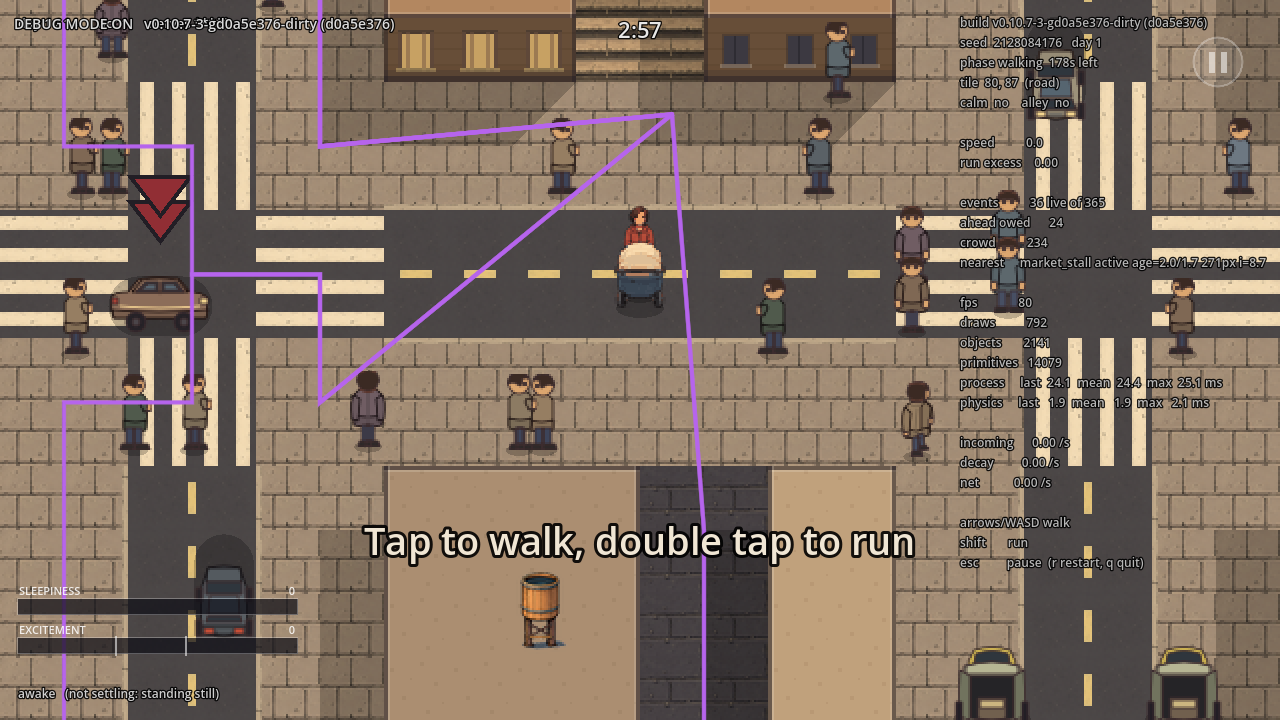
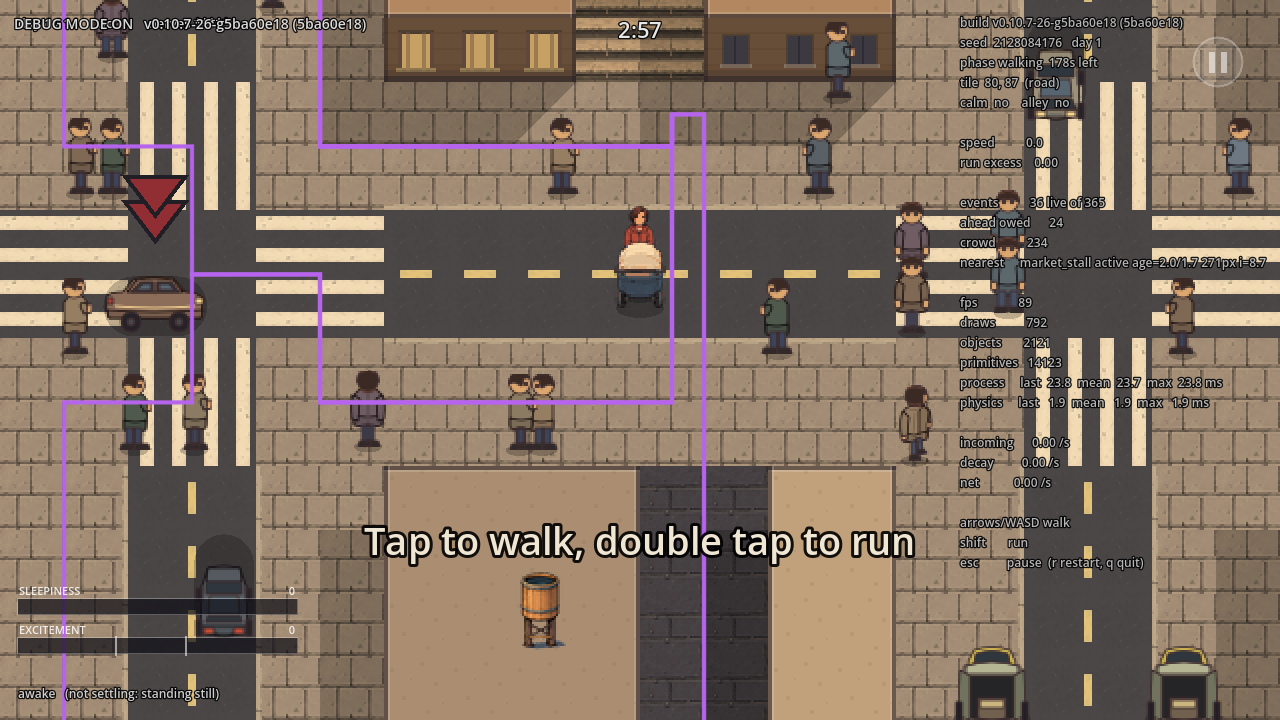
M129: the four rules filed in DECISIONS.md, the entry holds the one open question, the still retaken
The four items are built (the branch's commits), so the entry is rewritten to what is still
open -- the wall exemption and leaf_blower's reach, a balance decision for the player -- and
the record carries the probe's numbers end to end, each rule's construction and non-vacuity,
the fork resolved by measurement, and the picture's own part in the mid-block question. The
still on the player's seed is retaken with the connector drawn along the street. REVIEW.md
asks for the routes to be followed by eye on that seed.

diff --git a/docs/TODO.md b/docs/TODO.md
@@ -483,71 +483,30 @@ bar where it happened.
 
 ---
 
-## M129 — A path through the city never has to cost · asked for 2026-09-13
+## M129 — A path through the city never has to cost · the four rules built 2026-09-14, one question open
 
-> "also framing from a different point of view a path through the city must never hit
-> excitement -- so all obstacles should be routable around by eg crossing to the other side of
-> the street which in turn means the other side of the street must be open enough so we can
-> walk on it unimpeded. a yeller must loop in a way that the desired path has an opening where
-> the yeller is not present for example. also, the routing should only cross the street at
-> intersections. in block crossings are possible in game but shouldn't be counted on by the
-> routing algorithm"
+> "a path through the city must never hit excitement -- so all obstacles should be routable
+> around … the routing should only cross the street at intersections"
 
-[PLAYTEST-69](playtests/PLAYTEST-69.md). The **city** and **events** rules govern; the
-**balance** rule governs any number it moves.
+[PLAYTEST-69](playtests/PLAYTEST-69.md), [PLAYTEST-71](playtests/PLAYTEST-71.md),
+[PLAYTEST-75](playtests/PLAYTEST-75.md). The four rules are built and recorded
+(`DECISIONS.md`, M129, the four rules): a route's junctions stay clear, no single standing row
+takes a route street's whole width, a pacing row leaves the line open for part of its beat,
+and the tree grows on a graph with no carriageway cell but the junctions' and no main-road
+cell at all. The probe now finds a zero-cost line along a third of routes (100 of 296) where
+it found one along a sixth, and no route crosses a carriageway mid-block or touches the spine
+outside a junction. **The guarantee is still not true for two routes in three**, and the
+biggest remaining cause is a design decision, not a defect, so it waits on the player:
 
-**What is true today.** The day's routes are a corridor of two-tile cells grown on the
-reachability grid (`DECISIONS.md`, M69); `ClosurePlanner` accepts a closure only if the home
-still reaches two calm areas, `EventScheduler._ensure_the_city_is_still_walkable` drops
-obstructing bodies, widest first, until a park is reachable, and a `hard_fail` row keeps its
-whole field clear of other events (`_room_around`). Every one of those is about *reaching*, and
-a route that reaches through three friction fields in a row is as legal as an empty one. Costly
-rows land inside the corridor on purpose (the `friction` role). **The reading is the player's**
-([PLAYTEST-71](playtests/PLAYTEST-71.md), the three readings): a pacing row is passed by timing,
-so only the ground its beat never leaves free counts as blocked — *"time pass -- don't route
-around them"*; a moving row never counts — *"the player can cross the street, wait, then come
-back without ever getting excited by it"*; a region door never counts — *"it costs by design"*;
-and a flock is scenery — *"flocks are basically free already -- don't count it as block"* — so
-`pigeon_flock` carries `EventDef.scenery` and is outside the cost rule's wall and friction
-placement altogether. **The guarantee is measured under that reading and is far from true**:
-`tests/probes/m129_zero_cost_line.gd`, run by name, finds a zero-cost line along about one
-route in six over a run, one in three on day 1 and one in twenty-five from act III; the
-numbers, the readings and the failing shapes are in `DECISIONS.md` under M129, the reading
-decided. The dominant break is a *covered junction* — the only legal crossing sits inside some
-row's reach — then a single row wide enough to take a street alone (the street is 192px kerb to
-kerb and most reaches are 179 to 240px; `leaf_blower` most often), then a cut no one row
-makes, then the yeller's beat. A body with the far pavement also taken is the rarest shape and
-two friction fields on facing pavements never occur, so the far-pavement rule the entry first
-drafted is not written. The corridor grower itself crosses a carriageway mid-block about three
-times per route, on ordinary streets and never on the spine.
-
-- [ ] **A route's junctions stay clear.** The junctions a route passes through, and the ones at
-      each end of each of its streets, are outside every counted row's reach: checked before a
-      row is placed, never repaired after (the city rule), so a row whose field would cover a
-      route junction is refused that ground. This is the shape that breaks most routes — more
-      than every other shape together — and no earlier item named it. Pursuers, `AHEAD_OF_PLAYER` and
-      `TOWARD_PLAYER` rows, city-wide rows, moving rows and doors are outside this — the first
-      three pay the telegraph contract, the last two are not blocks — and so is anything off
-      the corridor, where the wall role is the design. Re-run the probe after.
-- [ ] **No single standing row takes a route street's whole width.** A friction row that stands
-      or paces on a route's pavement is accepted only if its reach leaves the far pavement of
-      that street outside it for the stretch between the two nearest junctions; a row that
-      cannot — `busker`, `ice_cream_van` at today's reaches on a 192px street, and
-      `police_patrol` if it turns out to pace rather than travel — is refused corridor ground or
-      its reach on the corridor is the number the **balance** rule moves. Where the corridor
-      runs along a precinct, a park edge or an alley, say what "the other side" is there or
-      refuse the row that ground. Re-run the probe after.
-- [ ] **A pacing row leaves the line open for part of its beat.** This is the reading as well
-      as the rule, and the probe finds it broken only where a second row closes the beat's open
-      end: the yeller's route is sited and sized so that the pavement it paces is clear at one
-      end for a readable share of each loop, or its loop runs on the pavement the route does
-      not use, and no other row's reach covers that open end; the choice is measured with the
-      probe and the reach the line needs at the far end of its beat is the number. The same
-      for any other row that `paces`. Re-run the probe after.
-- [ ] **Mid-block crossings are not counted on.** The route tree's cells cross a carriageway
-      only at a junction; in play she may still cross anywhere. The probe finds the grower
-      crossing mid-block on most routes today, so this is a change to how the corridor is grown
-      on the reachability grid, and the probe's own mid-block count is its test.
+- [ ] **The wall exemption, and `leaf_blower` in particular.** Every rule exempts the `WALL`
+      role, since a wall is placed off the corridor by design — and `leaf_blower` is a wall
+      (its walk-through cost of 37.7 clears `Tuning.WALL_WORTH_OF_COST`, 35.0) with a 200 px
+      reach across a 192 px street, so it stands in a cut on 156 of the 196 routes still
+      broken. Two ways out, each the **balance** rule's: its reach comes under the street's
+      width, or the wall exemption narrows so a wall's field may not close a route junction
+      or a route street's width either. Which, or neither, is the player's call; the seals a
+      `SealPlanner` places before the scheduler runs are the other reach the rules never
+      see, and are the same question one step further out.
 
 ---
 

diff --git a/docs/DECISIONS.md b/docs/DECISIONS.md
@@ -1,5 +1,98 @@
 # Decisions
 
+## M129 — A path through the city never has to cost · the four rules built 2026-09-14
+
+*(2026-09-13, [PLAYTEST-69](playtests/PLAYTEST-69.md); the reading decided in
+[PLAYTEST-71](playtests/PLAYTEST-71.md); the fourth rule's construction in
+[PLAYTEST-75](playtests/PLAYTEST-75.md): "why not just remove the street tiles and main street
+blocks from the graph entirely?"; and "how is this path possible?" of a picture.)* Four agent
+commits and one of the session's on `feature/m129-the-four-rules`, reviewed on the PR; the
+probe's five runs are `evidence/m129-the-four-rules-2026-09-14/probe-*.txt` and the still is
+`routes-after-2s.png`.
+
+**The probe, end to end.** `tests/probes/m129_zero_cost_line.gd`, six seeds by one day per
+act, under the decided reading; the baseline reproduces the re-run above exactly.
+
+| | before | junctions | width | beat | mid-block |
+|---|---|---|---|---|---|
+| routes with a zero-cost line | 50/298 (16.8%) | 25.8% | 30.2% | 30.5% | 100/296 (33.8%) |
+| the junction itself is taken (routes / cuts) | 135 / 401 | 140 / 290 | 128 / 241 | 127 / 240 | 129 / 216 |
+| one row spans the street | 39 / 97 | 25 / 48 | 19 / 41 | 19 / 41 | 11 / 24 |
+| a pacing row with no opening | 6 / 68 | 6 / 47 | 0 / 9 | 0 / 9 | 5 / 17 |
+| mid-block crossings | 871 | 871 | 871 | 871 | 0 |
+| routes with any carriageway cell | 258 | 258 | 258 | 258 | 0 |
+
+**Rule 1, a route's junctions stay clear.** `RouteTree.junctions()` names the crossings a walk
+cannot route around — the junction at each end of every street the tree runs along, plus any a
+route's own cells cut through from a park or an alley — and `Corridor.route_junctions()`
+carries them. `EventScheduler._leaves_the_route_junctions_open`, inside `_place_one`'s
+candidate loop before the spacing, refuses a candidate where its reach *together with
+everything already down* would leave the junction box with no four-connected walk joining the
+route streets that meet there: checked before the row is accepted, nothing moved or deleted
+after. Two readings of "covered" were weighed: a literal one (no reach touches the box) is
+arithmetically empty, since a 200 px row could then stand on no corridor street at all, so
+*the crossing stays open* is the rule, stated cumulatively because the crossing the probe names
+most often is closed by a pair. Open means one walkable tile, which a stroller (28 px) fits
+through. The test asserts the finished day and floods the box itself; with the refusal off it
+reports 39 closed junctions on seed 4242.
+
+**Rule 2, no single standing row takes a route street's whole width.**
+`_leaves_a_line_past_it` refuses a counted row on a route street whose own reach alone would
+leave no walk from one of that street's junctions to the other, asking the probe's own
+question at placement time. A precinct needs no case and an alley, park cut or square is a
+route cell on no street, so the rule says nothing there rather than refusing the alley rows the
+corridor uses. With the refusal off: 9 rows spanning a route street on seed 4242.
+
+**Rule 3, a pacing row leaves the line open for part of its beat.**
+`_leaves_a_pacing_beats_opening`: on a route street carrying a pacing row, every counted row
+reaching that street is asked together whether a walk from junction to junction survives,
+and both directions are refused — the pacing row that would land where the rows already down
+close its opening, and the standing row that would close one. A pacing row's denied ground is
+the intersection of the discs at its beat's corners, exact since a disc is convex. Resiting
+or resizing a beat was not built: every break the probe finds is another row's reach covering
+the open end, not a beat too long or on the wrong side.
+
+**Rule 4, mid-block crossings are not counted on.** Built as the player said: `RouteTree`'s
+`_is_off_the_growths_graph` takes out of the graph the growth walks every carriageway cell
+between two junctions and every main-road cell outside a junction, pavements included,
+replacing the old rule that only refused to walk the spine's length. Applied in `_ways`, which
+every probe and the trunk search go through; the shared `ReachabilityGrid`, the winnability
+invariant, `ClosurePlanner`, `CrowdPockets` and `Corridor.depth()` are untouched, since she
+can still walk on a road in play. A junction box is kept whole — nine cells, since the box is
+six tiles square on a fourteen-tile period and both are even — because a route turning at a
+junction passes through its corners. The spine keeps its existing fallback where the doorstep
+has no other way out; a carriageway needs none, since a street's two pavements join through
+the boxes at both ends. Mid-block crossings 871 to 0; routes touching a carriageway 258 to 0;
+165 routes still cross the spine, at junctions. Two second-route *offers* were lost (298 to
+296) and no calm area; reported, not repaired. With the filter off the geometry test fails
+4,041 times on seed 4400.
+
+**And the picture.** The still on the seed the player asked about showed the drawn polyline's
+own first segment, a straight hop from the doorstep to wherever the tree joins the home
+frontage, cutting diagonally across the carriageway where no route cell was — so part of "how
+is this path possible?" was the drawing. `RouteLines` now draws that connector as two
+axis-aligned legs through the point on the frontage in front of the door.
+
+**The one fork, resolved by measurement.** The entry's exclusion "anything off the corridor,
+where the wall role is the design" reads two ways: exempt any row standing off the corridor
+(built first: 24.2%, and the junction shape did not move, since the pair closing a crossing is
+usually an ordinary row one turning out with its field reaching in) or exempt the `WALL` role
+(shipped: 25.8%). `_copies_of` already makes *wall* and *off the corridor* the same set by
+construction. Also tried and reverted: not spending a placement try on refused ground — it
+changed nothing, since the loop returns on the first candidate with room.
+
+**What is left, and why it is the player's.** A third of routes carry a zero-cost line where a
+sixth did. Of the 196 still broken, `leaf_blower` stands in the cut on 156: it is a `WALL` by
+its walk-through cost (37.7 against `Tuning.WALL_WORTH_OF_COST` 35.0) with a 200 px reach
+across a 192 px street, exempt from all three placement rules by the entry's own text. Its
+reach coming under the street's width, or the wall exemption narrowing, is the **balance**
+rule's decision and stays in `TODO.md` under M129. The seals `SealPlanner` places before the
+scheduler runs reach crossings the rules never see, the same question one step out. Act IV's
+share fell after rule 4 (18.4% to 12.5% on 48 routes), one act of one sample. And
+`_test_the_day_is_placed_by_role`'s friction-on-corridor floor moved from 0.45 to 0.35 with a
+new floor of 0.45 over the narrow rows alone, since the junction rule pushes the wide rows one
+turning out by design; the old docstring's 64% was stale before this branch.
+
 ## M142 — A layer turned off is drawn off · built 2026-09-14
 
 *(2026-09-14, [PLAYTEST-75](playtests/PLAYTEST-75.md): "pressing number keys to turn off a

diff --git a/docs/REVIEW.md b/docs/REVIEW.md
@@ -21,6 +21,13 @@ debug view"). `--invincible` is the way to walk this whole list in one sitting: 
 the clock stands still and the excitement meter never rises, so one run can stand next to every
 item below for as long as looking takes.
 
+- **Turn on `5` on seed 2128084176, day 1, and follow every purple line with your eyes.** The
+  tree grows on a graph with no carriageway cell but the junctions' and none of the main
+  road's, and the doorstep connector is drawn along the street now rather than as a straight
+  hop. **Does any route line still cross a carriageway anywhere but at a crossing, or run on
+  the main road?** And walking one route end to end: is there a line through it that never
+  costs, and where it breaks, what stands in the way — the probe says a leaf blower most often.
+  Record is `DECISIONS.md`, M129, the four rules.
 - **Cross a region door on foot, from day 7** (`--day 7`; a door is the hut-boom-hut across a
   boundary street). The boom hangs between its posts across the lanes, level with the huts; the
   inspection starts as soon as she stands against the hut; the camera eases from where it was
